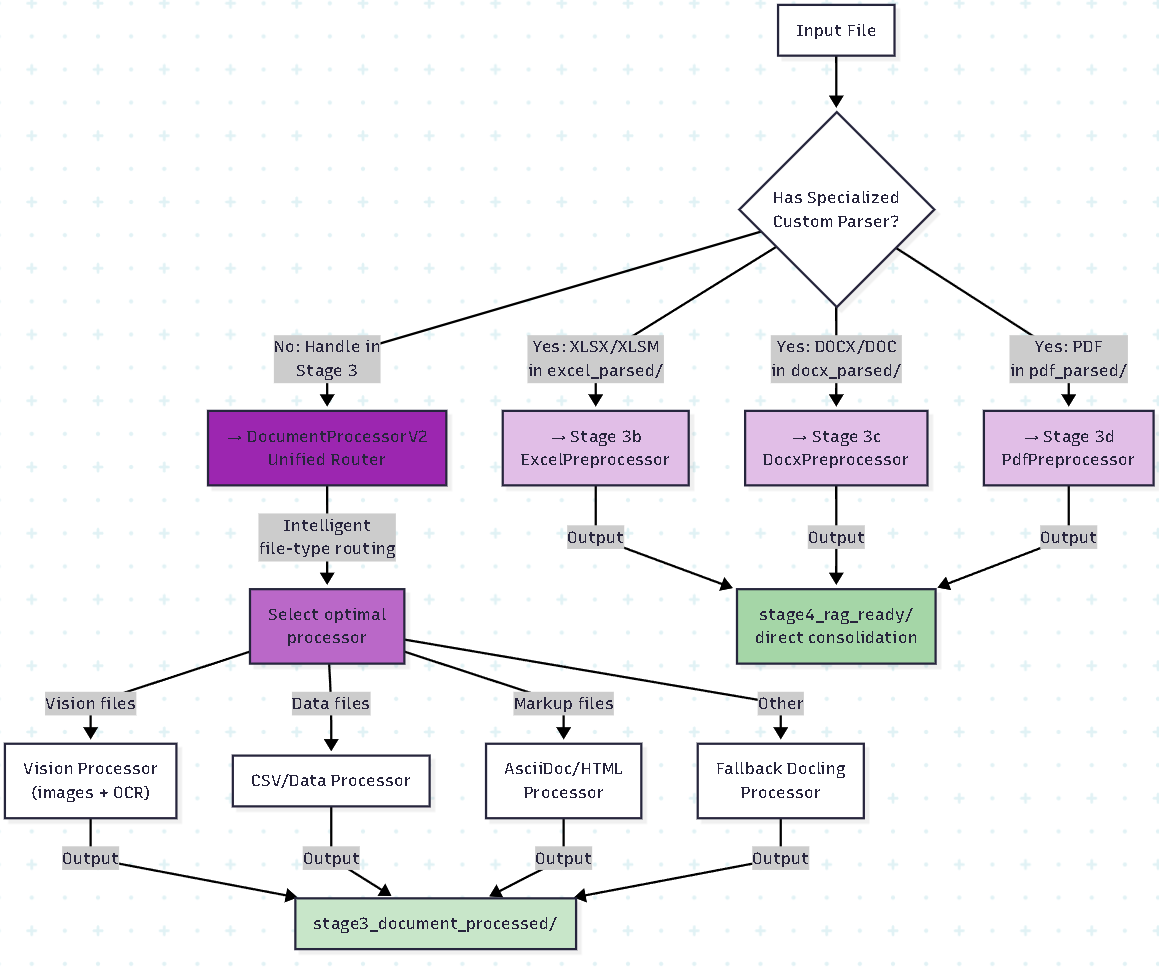
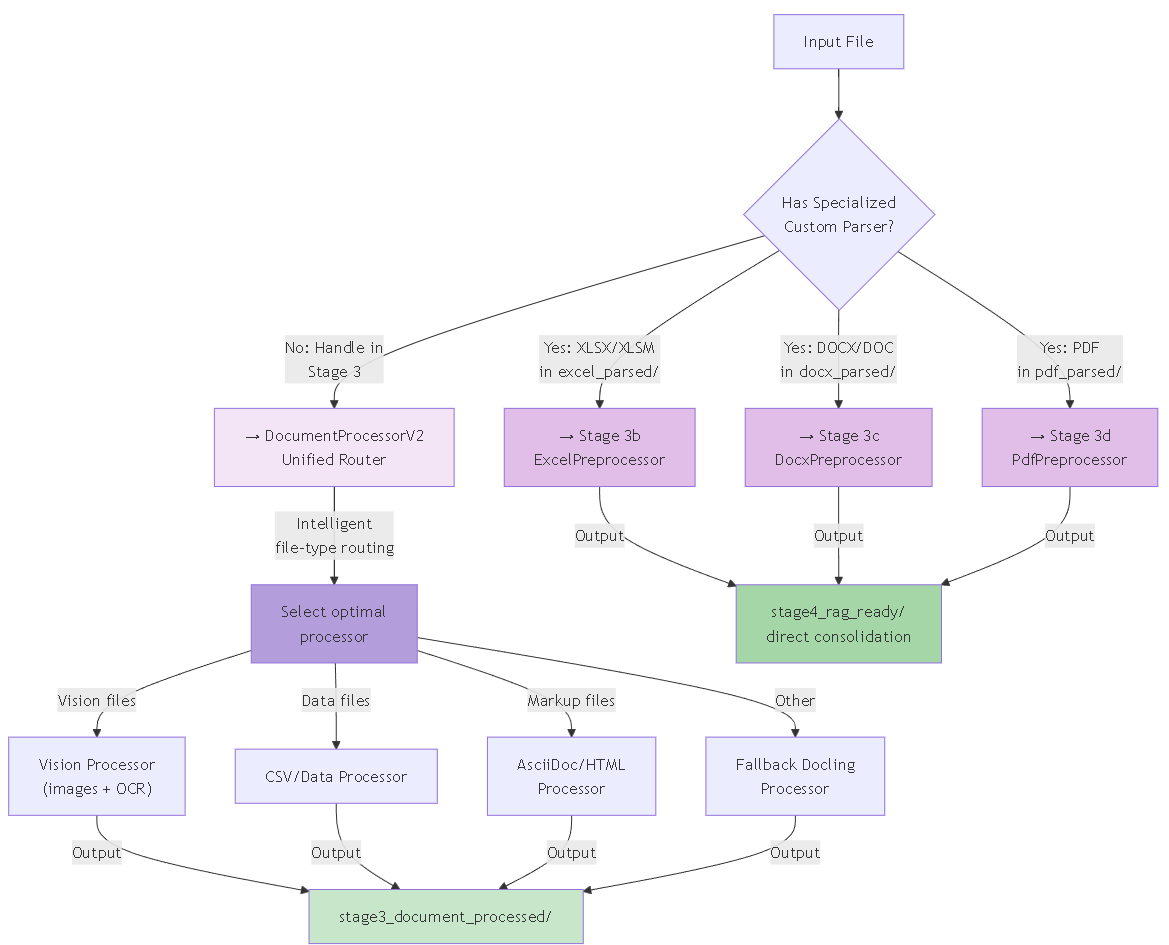
update: diagrams

diff --git a/Phase_2_Report/_heading/06_implementation.tex b/Phase_2_Report/_heading/06_implementation.tex
@@ -112,7 +112,7 @@ At the core of the system lies the \texttt{UnifiedRAGPipeline} class. This compo
 
 \begin{figure}[H]
     \centering
-    \includegraphics[width=1\textwidth]{img/pdz/72-search-flow.png}
+    \includegraphics[width=0.75\textwidth]{img/pdz/72-search-flow.png}
     \caption[Search and Generation Orchestration Flow]{Search and Generation Orchestration Flow.}
     \label{fig:search_flow}
 \end{figure}
@@ -130,7 +130,7 @@ The implementation utilizes a \textbf{Hybrid Cloud Storage Architecture}. Unlike
 
 \begin{figure}[H]
     \centering
-    \includegraphics[width=1\textwidth]{img/pdz/73-local-vs-cloud.png}
+    \includegraphics[width=0.5\textwidth]{img/pdz/73-local-vs-cloud.png}
     \caption[Hybrid Storage Architecture (Local vs. Cloud)]{Hybrid Storage Architecture (Local vs. Cloud).}
     \label{fig:storage_tiers}
 \end{figure}
@@ -138,14 +138,15 @@ The implementation utilizes a \textbf{Hybrid Cloud Storage Architecture}. Unlike
 
 \textbf{4. Logical Subsystems}
 
+The system logic is divided into two specialized engines that operate in parallel during query execution:
+
+
 \begin{figure}[H]
     \centering
-    \includegraphics[width=1\textwidth]{img/pdz/70-retrieval-systems.png}
+    \includegraphics[width=0.75\textwidth]{img/pdz/70-retrieval-systems.png}
     \caption[Retrieval Systems]{Retrieval Systems.}
     \label{fig:retrieval_systems}
 \end{figure}
-
-The system logic is divided into two specialized engines that operate in parallel during query execution:
 
 \textbf{Hybrid Text Retrieval Engine}
 
@@ -158,7 +159,7 @@ The text retrieval engine has been optimized for multi-tenant cloud deployment u
     
     \begin{figure}[H]
         \centering
-        \includegraphics[width=1\textwidth]{img/pdz/71-reranking.png}
+        \includegraphics[width=0.7\textwidth]{img/pdz/71-reranking.png}
         \caption[Cross-Encoder Reranking Architecture]{Cross-Encoder Reranking Architecture.}
         \label{fig:reranking_arch}
     \end{figure}
@@ -251,7 +252,7 @@ To handle temporal media, the system implements a two-step transformation:
 Legacy office formats require conversion before structural analysis. The system utilizes \textbf{LibreOffice} in a headless server environment.
 \begin{figure}[H]
     \centering
-    \includegraphics[width=0.7\textwidth]{img/pdz/25-libre.png}
+    \includegraphics[width=0.9\textwidth]{img/pdz/25-libre.png}
     \caption[LibreOffice Document Conversion Process]{LibreOffice Document Conversion Process.}
     \label{fig:libre_process}
 \end{figure}
@@ -297,7 +298,7 @@ This section documents the complete 7-stage processing pipeline in detail, inclu
 
 \begin{figure}[H]
     \centering
-    \includegraphics[width=1\textwidth]{img/pdz/58-pipeline-architecture-overview.png}
+    \includegraphics[width=0.3\textwidth]{img/pdz/58-pipeline-architecture-overview.png}
     \caption[Pipeline Architecture Overview]{Pipeline Architecture Overview.}
     \label{fig:pipeline_overview}
 \end{figure}
@@ -369,7 +370,7 @@ Audio (WAV, MP3) & Extension & Pass-through & — & — (→ Stage 2) \\
 
 \begin{figure}[H]
     \centering
-    \includegraphics[width=1\textwidth]{img/pdz/61-media-processing -flow.png}
+    \includegraphics[width=0.55\textwidth]{img/pdz/61-media-processing -flow.png}
     \caption[Stage 2: Media Processing Workflow]{Stage 2: Media Processing Workflow.}
     \label{fig:stage2_media_flow}
 \end{figure}
@@ -468,7 +469,7 @@ For documents NOT in the custom parser output directories, Docling performs full
 
 \begin{figure}[H]
     \centering
-    \includegraphics[width=1\textwidth]{img/pdz/66-Excel-processing.png}
+    \includegraphics[width=0.7\textwidth]{img/pdz/66-Excel-processing.png}
     \caption[Stage 3b: Specialized Excel Processing Workflow]{Stage 3b: Specialized Excel Processing Workflow.}
     \label{fig:excel_proc}
 \end{figure}
@@ -497,7 +498,7 @@ For documents NOT in the custom parser output directories, Docling performs full
 
 \begin{figure}[H]
     \centering
-    \includegraphics[width=1\textwidth]{img/pdz/67-DOCX-processing.png}
+    \includegraphics[width=0.7\textwidth]{img/pdz/67-DOCX-processing.png}
     \caption[Stage 3c: Specialized DOCX Processing Workflow]{Stage 3c: Specialized DOCX Processing Workflow.}
     \label{fig:docx_proc}
 \end{figure}
@@ -525,7 +526,7 @@ For documents NOT in the custom parser output directories, Docling performs full
 
 \begin{figure}[H]
     \centering
-    \includegraphics[width=1\textwidth]{img/pdz/68-PDF-processing.png}
+    \includegraphics[width=0.7\textwidth]{img/pdz/68-PDF-processing.png}
     \caption[Stage 3d: Specialized PDF Processing Workflow]{Stage 3d: Specialized PDF Processing Workflow.}
     \label{fig:pdf_proc}
 \end{figure}
@@ -2273,7 +2274,7 @@ By placing the WAF at the ALB level, all inbound traffic is filtered before reac
 
 \begin{figure}[H]
     \centering
-    \includegraphics[width=0.95\textwidth]{img/pdz/47-aws-waf.jpg}
+    \includegraphics[width=1\textwidth]{img/pdz/47-aws-waf.jpg}
     \caption[AWS Web Application Firewall Architecture]{AWS Web Application Firewall (WAF) deployment architecture protecting the BK-MInD ALB.}
     \label{fig:waf_architecture}
 \end{figure}
@@ -2327,7 +2328,7 @@ The WAF also implements a challenge mechanism using CAPTCHA for suspicious but n
 
 \begin{figure}[H]
     \centering
-    \includegraphics[width=0.95\textwidth]{img/pdz/50-waf-summary-view.png}
+    \includegraphics[width=1\textwidth]{img/pdz/50-waf-summary-view.png}
     \caption[WAF Summary Dashboard]{AWS WAF summary dashboard showing request volume, blocked requests, and CAPTCHA challenges.}
     \label{fig:waf_dashboard}
 \end{figure}
@@ -2345,7 +2346,7 @@ Blocked requests are logged to CloudWatch Logs for forensic analysis, including 
 
 \begin{figure}[H]
     \centering
-    \includegraphics[width=0.95\textwidth]{img/pdz/51-waf-attack-type.png}
+    \includegraphics[width=1\textwidth]{img/pdz/51-waf-attack-type.png}
     \caption[WAF Attack Type Distribution]{WAF dashboard showing distribution of detected attack types.}
     \label{fig:waf_attacks}
 \end{figure}
@@ -2360,7 +2361,7 @@ While AWS WAF protects against technical network-layer attacks, BK-MInD requires
 
 \begin{figure}[H]
     \centering
-    \includegraphics[width=0.95\textwidth]{img/pdz/48-aws-bedrock-guardrail.jpg}
+    \includegraphics[width=1\textwidth]{img/pdz/48-aws-bedrock-guardrail.jpg}
     \caption[AWS Bedrock Guardrail Architecture]{AWS Bedrock Guardrails providing application-level content filtering for AI model interactions.}
     \label{fig:bedrock_guardrail}
 \end{figure}
@@ -2440,7 +2441,7 @@ AWS DynamoDB tables are configured with server-side encryption using AWS-managed
 
 \begin{figure}[H]
     \centering
-    \includegraphics[width=0.95\textwidth]{img/pdz/49-security-architecture.jpg}
+    \includegraphics[width=1\textwidth]{img/pdz/49-security-architecture.jpg}
     \caption[Comprehensive Security Architecture]{Multi-layered security architecture combining WAF, Bedrock Guardrails, and data encryption.}
     \label{fig:security_architecture}
 \end{figure}
@@ -2503,7 +2504,7 @@ The architecture sustains 50,000+ requests per second without degradation, far e
 
 \begin{figure}[H]
     \centering
-    \includegraphics[width=0.95\textwidth]{img/pdz/53-waf-bot-detection.png}
+    \includegraphics[width=1\textwidth]{img/pdz/53-waf-bot-detection.png}
     \caption[WAF Bot Detection Metrics]{WAF bot detection showing automated attack attempts blocked by security controls.}
     \label{fig:waf_bot_detection}
 \end{figure}
@@ -2524,7 +2525,7 @@ All tests confirmed security controls function as designed with no false positiv
 
 \begin{figure}[H]
     \centering
-    \includegraphics[width=0.95\textwidth]{img/pdz/55-waf-request-location.png}
+    \includegraphics[width=1\textwidth]{img/pdz/55-waf-request-location.png}
     \caption[WAF Geographic Distribution]{WAF showing geographic distribution of requests and blocked traffic sources.}
     \label{fig:waf_geography}
 \end{figure}